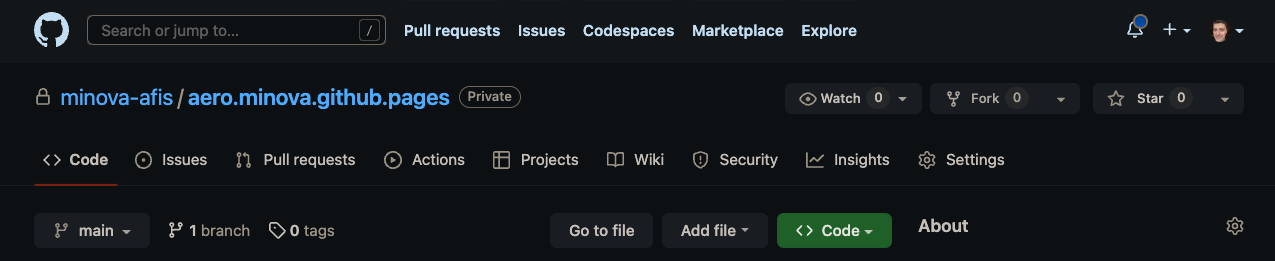
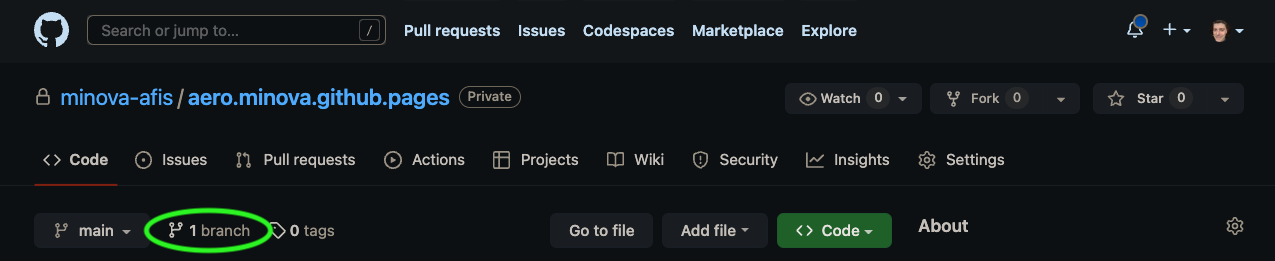
update

Changed region(s): [[0.0918, 0.7969, 0.2141, 0.9808]]

diff --git a/README.md b/README.md
@@ -8,18 +8,36 @@ GitHub Pages bieten eine gute Möglichkeit, einfach und unkompliziert Dokumentat
 
 ## Konfiguration des Standards
 
-1. Zuerst begeben wir uns auf die Startseite des Repositories, das wir mit einer GitHub Page versehen wollen und klicken auf **Settings**
+1. Zuerst begeben wir uns auf die Startseite des Repositories, das wir mit einer GitHub Page versehen wollen.
 
 ![](/doc/img/1-repopage.png)
 
-2.
+2. Es empfiehlt sich, die Dateien für die GitHub Page auf einen separaten Branch auszulagern. Hierzu klickenwir auf das Fork-Symbol mit der Anzahl der Branches.
 
 ![](/doc/img/2-repopage-branches.png)
+
+3. In der Ansicht für die Branches erstellen wir per Klick auf den Button **New branch** einen neuen und nennen diesen **gh-pages**.
+
 ![](/doc/img/3-create-branch.png)
+
+4. Zurück in der Hauptübersicht des Repositories klicken wir nun auf **Settings**.
+
 ![](/doc/img/4-repopage-settings.png)
+
+5. In den Settings klicken wir auf **Pages**.
+
 ![](/doc/img/5-settings.png)
+
+6. Hier wählen wir unter dem Oberpunkt **Branch** den eben erstellten Branch **gh-pages** aus. Das Verzeichnis belassen wir beim Standard **/root** und klicken auf **Save**.
+
 ![](/doc/img/6-set-branch.png)
+
+7. Um zu überprüfen, ob die Konfiguration geklappt hat, können wir auf den Reiter **Actions** klicken. Dort wird ein Workflow angestoßen, der **pages build and deployment** heisst. Dieser Workflow benötigt ungefähr eine Minute und wird mit einem grünen runden Hakensymbol vesehen, sowie er erfolgreich abgeschlossen wurde.
+
 ![](/doc/img/7-gh-actions.png)
+
+8. Zurück in der **Settings/Pages**-Ansicht finden wir nun oben den Link zu unserer frisch deployten GitHub Page. Der Zeitraum zwischen ausgeführtem Workflow und der tatsächlichen Erreichbarkeit der GitHub Page kann durchaus einige Minuten bis zur Aktualisierung dauern.
+
 ![](/doc/img/8-get-url.png)
 
 ## Editieren des Standards
